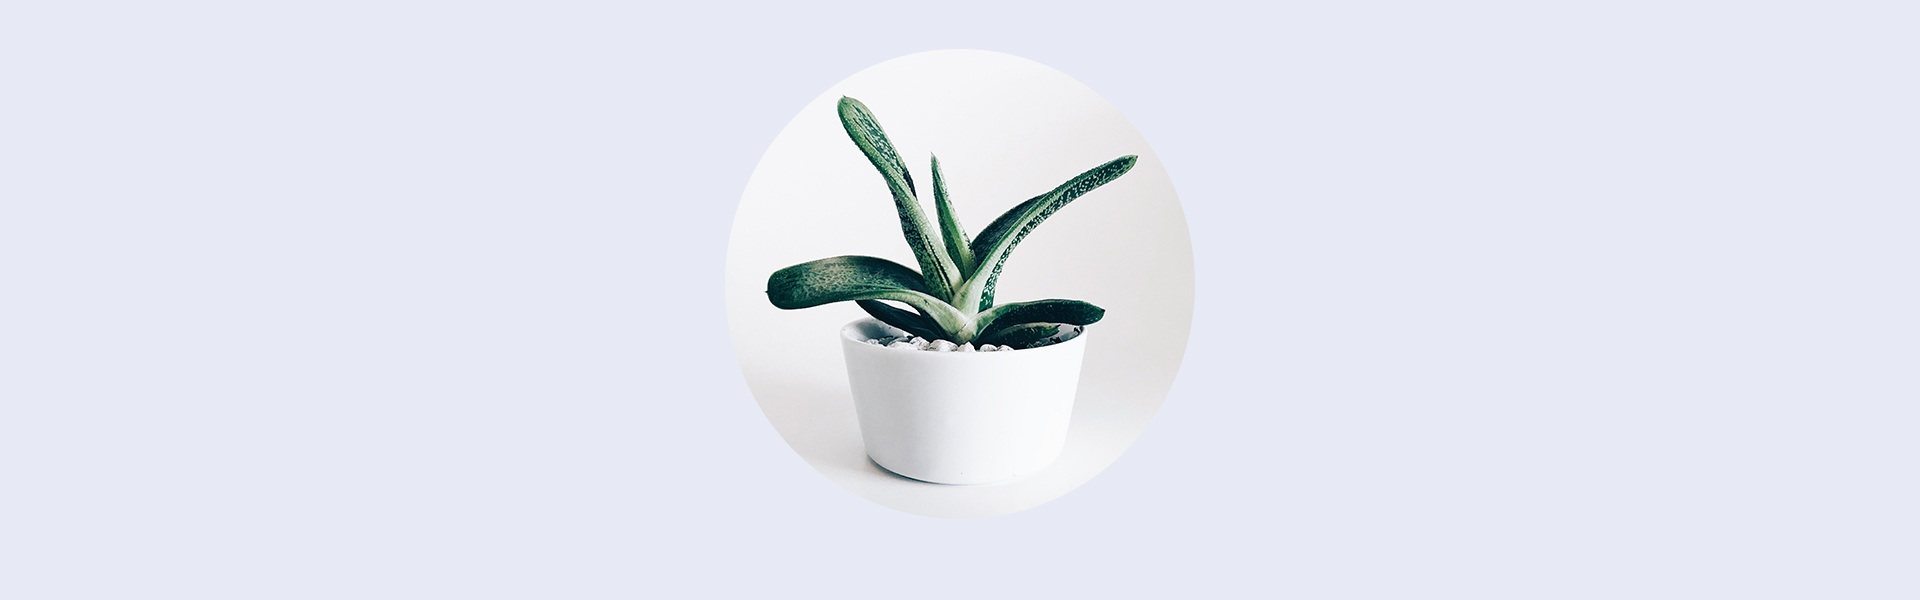
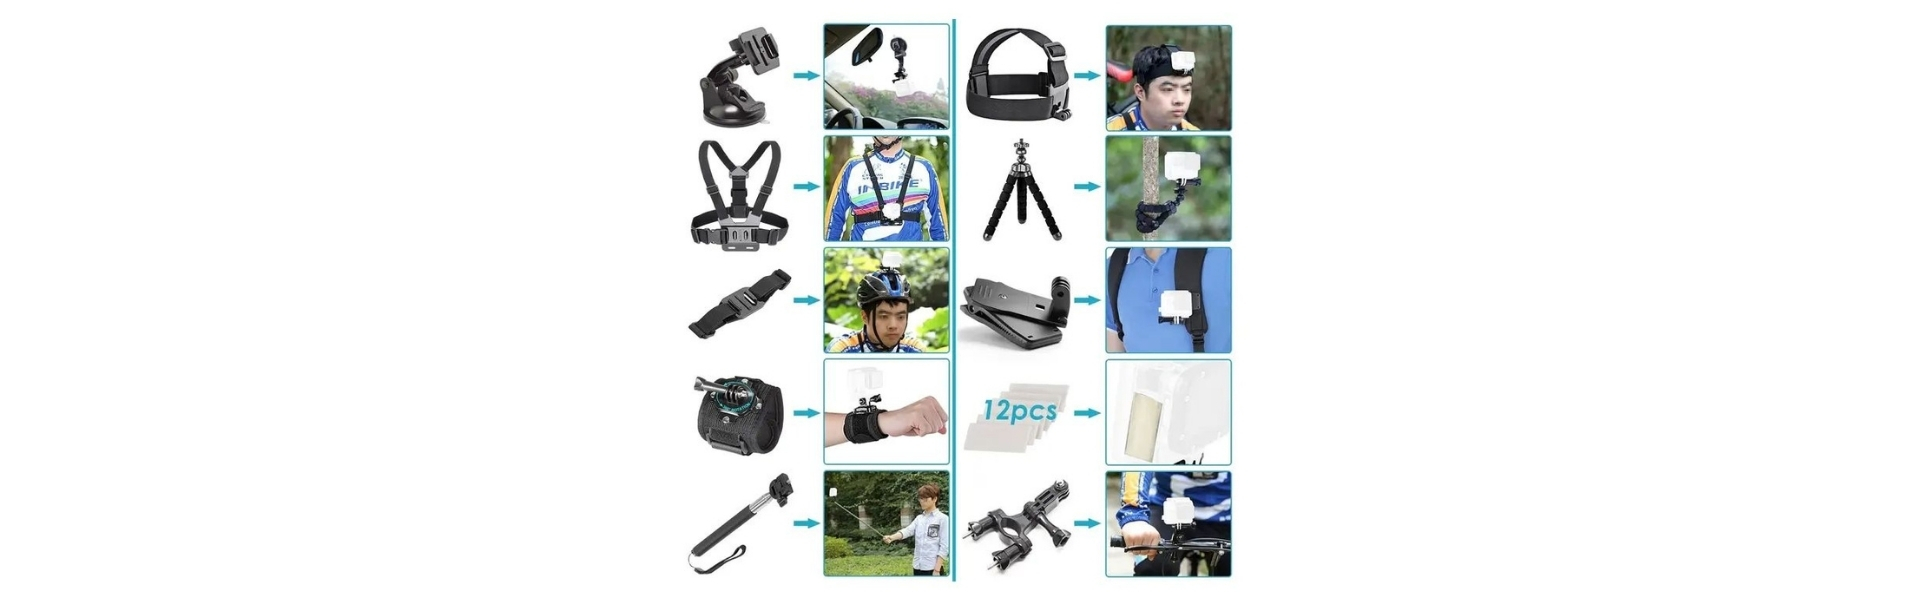
5.21 update

Changed region(s): [[0.3438, 0.03, 0.6562, 0.99]]

diff --git a/single-product.html b/single-product.html
@@ -10,7 +10,7 @@
     <meta name="apple-mobile-web-app-status-bar-style" content="black">
     <!-- The above tags *must* come first in the head, any other head content must come *after* these tags -->
     <!-- Title -->
-    <title>Suha - Multipurpose Ecommerce Mobile HTML Template</title>
+    <title>PixelHouse</title>
     <link rel="preconnect" href="https://fonts.googleapis.com">
     <link rel="preconnect" href="https://fonts.gstatic.com" crossorigin>
     <link href="https://fonts.googleapis.com/css2?family=Plus+Jakarta+Sans:ital,wght@0,200..800;1,200..800&amp;display=swap" rel="stylesheet">
@@ -72,22 +72,8 @@
         <ul class="sidenav-nav ps-0">
           <li><a href="profile.html"><i class="ti ti-user"></i>My Profile</a></li>
           <li><a href="notifications.html"><i class="ti ti-bell-ringing lni-tada-effect"></i>Notifications<span class="ms-1 badge badge-warning">3</span></a></li>
-          <li class="suha-dropdown-menu"><a href="#"><i class="ti ti-building-store"></i>Shop Pages</a>
-            <ul>
-              <li><a href="shop-grid.html">Shop Grid</a></li>
-              <li><a href="shop-list.html">Shop List</a></li>
-              <li><a href="single-product.html">Product Details</a></li>
-              <li><a href="featured-products.html">Featured Products</a></li>
-              <li><a href="flash-sale.html">Flash Sale</a></li>
-            </ul>
-          </li>
-          <li><a href="pages.html"><i class="ti ti-notebook"></i>All Pages</a></li>
-          <li class="suha-dropdown-menu"><a href="wishlist-grid.html"><i class="ti ti-heart"></i>My Wishlist</a>
-            <ul>
-              <li><a href="wishlist-grid.html">Wishlist Grid</a></li>
-              <li><a href="wishlist-list.html">Wishlist List</a></li>
-            </ul>
-          </li>
+         
+          
           <li><a href="settings.html"><i class="ti ti-adjustments-horizontal"></i>Settings</a></li>
           <li><a href="intro.html"><i class="ti ti-logout"></i>Sign Out</a></li>
         </ul>
@@ -116,15 +102,15 @@
         <div class="product-title-meta-data bg-white mb-3 py-3">
           <div class="container d-flex justify-content-between rtl-flex-d-row-r">
             <div class="p-title-price">
-              <h5 class="mb-1">Flower Ceramic Pots</h5>
-              <p class="sale-price mb-0 lh-1">$38<span>$41</span></p>
+              <h5 class="mb-1">50 in 1 Accesories Kit GoPro</h5>
+              <p class="sale-price mb-0 lh-1">Rs. 8,000<span>Rs. 13,000</span></p>
             </div>
             <div class="p-wishlist-share"><a href="wishlist-grid.html"><i class="ti ti-heart"></i></a></div>
           </div>
           <!-- Ratings-->
           <div class="product-ratings">
             <div class="container d-flex align-items-center justify-content-between rtl-flex-d-row-r">
-              <div class="ratings"><i class="ti ti-star-filled"></i><i class="ti ti-star-filled"></i><i class="ti ti-star-filled"></i><i class="ti ti-star-filled"></i><i class="ti ti-star-filled"></i><span class="ps-1">3 ratings</span></div>
+              <div class="ratings"><i class="ti ti-star-filled"></i><i class="ti ti-star-filled"></i><i class="ti ti-star-filled"></i><i class="ti ti-star-filled"></i><i class="ti ti-star-filled"></i><span class="ps-1">4 ratings</span></div>
               <div class="total-result-of-ratings"><span>5.0</span><span>Very Good                                </span></div>
             </div>
           </div>
@@ -138,7 +124,7 @@
               <div class="sales-end">
                 <p class="mb-1 font-weight-bold"><i class="ti ti-bolt-lightning lni-flashing-effect text-danger"></i> Flash sale end in</p>
                 <!-- Please use event time this format: YYYY/MM/DD hh:mm:ss-->
-                <ul class="sales-end-timer ps-0 d-flex align-items-center" data-countdown="2025/01/01 14:21:37">
+                <ul class="sales-end-timer ps-0 d-flex align-items-center" data-countdown="2026/10/01 14:21:37">
                   <li><span class="days">0</span>d</li>
                   <li><span class="hours">0</span>h</li>
                   <li><span class="minutes">0</span>m</li>
@@ -155,58 +141,7 @@
             </div>
           </div>
         </div>
-        <!-- Selection Panel-->
-        <div class="selection-panel bg-white mb-3 py-3">
-          <div class="container d-flex align-items-center justify-content-between">
-            <!-- Choose Color-->
-            <div class="choose-color-wrapper">
-              <p class="mb-1 font-weight-bold">Color</p>
-              <div class="choose-color-radio d-flex align-items-center">
-                <!-- Single Radio Input-->
-                <div class="form-check mb-0">
-                  <input class="form-check-input blue" id="colorRadio1" type="radio" name="colorRadio" checked>
-                  <label class="form-check-label" for="colorRadio1"></label>
-                </div>
-                <!-- Single Radio Input-->
-                <div class="form-check mb-0">
-                  <input class="form-check-input yellow" id="colorRadio2" type="radio" name="colorRadio">
-                  <label class="form-check-label" for="colorRadio2"></label>
-                </div>
-                <!-- Single Radio Input-->
-                <div class="form-check mb-0">
-                  <input class="form-check-input green" id="colorRadio3" type="radio" name="colorRadio">
-                  <label class="form-check-label" for="colorRadio3"></label>
-                </div>
-                <!-- Single Radio Input-->
-                <div class="form-check mb-0">
-                  <input class="form-check-input purple" id="colorRadio4" type="radio" name="colorRadio">
-                  <label class="form-check-label" for="colorRadio4"></label>
-                </div>
-              </div>
-            </div>
-            <!-- Choose Size-->
-            <div class="choose-size-wrapper text-end">
-              <p class="mb-1 font-weight-bold">Size</p>
-              <div class="choose-size-radio d-flex align-items-center">
-                <!-- Single Radio Input-->
-                <div class="form-check mb-0 me-2">
-                  <input class="form-check-input" id="sizeRadio1" type="radio" name="sizeRadio">
-                  <label class="form-check-label" for="sizeRadio1">S</label>
-                </div>
-                <!-- Single Radio Input-->
-                <div class="form-check mb-0 me-2">
-                  <input class="form-check-input" id="sizeRadio2" type="radio" name="sizeRadio" checked>
-                  <label class="form-check-label" for="sizeRadio2">M</label>
-                </div>
-                <!-- Single Radio Input-->
-                <div class="form-check mb-0 me-2">
-                  <input class="form-check-input" id="sizeRadio3" type="radio" name="sizeRadio">
-                  <label class="form-check-label" for="sizeRadio3">L</label>
-                </div>
-              </div>
-            </div>
-          </div>
-        </div>
+       
         <!-- Add To Cart-->
         <div class="cart-form-wrapper bg-white mb-3 py-3">
           <div class="container">
@@ -224,14 +159,14 @@
         <div class="p-specification bg-white mb-3 py-3">
           <div class="container">
             <h6>Specifications</h6>
-            <p>Lorem ipsum dolor sit amet consectetur adipisicing elit. Quasi, eum? Id, culpa? At officia quisquam laudantium nisi mollitia nesciunt, qui porro asperiores cum voluptates placeat similique recusandae in facere quos vitae?</p>
+            <p>This complete action camera accessory kit includes durable mounts, straps, selfie stick, floating grip, carrying case, tripod adapter, suction cup, anti-fog inserts, and essential accessories for every adventure.</p>
             <ul class="mb-3 ps-3">
               <li><i class="ti ti-check me-1"></i> 100% Good Reviews</li>
               <li><i class="ti ti-check me-1"></i> 7 Days Returns</li>
               <li> <i class="ti ti-check me-1"></i> Warranty not Aplicable</li>
               <li> <i class="ti ti-check me-1"></i> 100% Brand New Product</li>
             </ul>
-            <p class="mb-0">Lorem ipsum dolor sit amet consectetur adipisicing elit. Quasi, eum? Id, culpa? At officia quisquam laudantium nisi mollitia nesciunt, qui porro asperiores cum voluptates placeat similique recusandae in facere quos vitae?</p>
+            <p class="mb-0">Designed for cycling, surfing, hiking, travel, and water sports, this versatile kit offers secure camera mounting, reliable protection, comfortable wear, reusable accessories, and convenient storage for unforgettable outdoor experiences.</p>
           </div>
         </div>
         <!-- Product Video -->
@@ -239,7 +174,7 @@
           <div class="container">
             <div class="video-cta-content d-flex align-items-center justify-content-center">
               <div class="video-text text-center">
-                <h4 class="mb-4">Summer Clothing</h4><a class="btn btn-primary rounded-circle" id="videoButton" href="https://www.youtube.com/watch?v=lFGvqvPh5jI"><i class="ti ti-player-play"></i></a>
+                <h4 class="mb-4">Accesori Kit Video</h4><a class="btn btn-primary rounded-circle" id="videoButton" href="https://www.youtube.com/watch?v=s6uUuEYpx3Q"><i class="ti ti-player-play"></i></a>
               </div>
             </div>
           </div>
@@ -258,15 +193,15 @@
                   <!-- Wishlist Button--><a class="wishlist-btn" href="#"><i class="ti ti-heart">                       </i></a>
                   <!-- Thumbnail --><a class="product-thumbnail d-block" href="single-product.html"><img class="mb-2" src="img/product/11.png" alt="">
                     <!-- Offer Countdown Timer: Please use event time this format: YYYY/MM/DD hh:mm:ss -->
-                    <ul class="offer-countdown-timer d-flex align-items-center shadow-sm" data-countdown="2024/12/31 23:59:59">
+                    <ul class="offer-countdown-timer d-flex align-items-center shadow-sm" data-countdown="2026/10/31 23:59:59">
                       <li><span class="days">0</span>d</li>
                       <li><span class="hours">0</span>h</li>
                       <li><span class="minutes">0</span>m</li>
                       <li><span class="seconds">0</span>s</li>
                     </ul></a>
-                  <!-- Product Title --><a class="product-title" href="single-product.html">Beach Cap</a>
+                  <!-- Product Title --><a class="product-title" href="single-product.html">Helmet Chin Strap Mount</a>
                   <!-- Product Price -->
-                  <p class="sale-price">$13<span>$42</span></p>
+                  <p class="sale-price">Rs. 2,990<span>Rs. 3,300</span></p>
                   <!-- Rating -->
                   <div class="product-rating"><i class="ti ti-star-filled"></i><i class="ti ti-star-filled"></i><i class="ti ti-star-filled"></i><i class="ti ti-star-filled"></i><i class="ti ti-star-filled"></i></div>
                   <!-- Add to Cart --><a class="btn btn-primary btn-sm" href="#"><i class="ti ti-plus"></i></a>
@@ -277,9 +212,9 @@
                   <!-- Badge--><span class="badge rounded-pill badge-success">New</span>
                   <!-- Wishlist Button--><a class="wishlist-btn" href="#"><i class="ti ti-heart">                       </i></a>
                   <!-- Thumbnail --><a class="product-thumbnail d-block" href="single-product.html"><img class="mb-2" src="img/product/5.png" alt=""></a>
-                  <!-- Product Title --><a class="product-title" href="single-product.html">Wooden Sofa</a>
+                  <!-- Product Title --><a class="product-title" href="single-product.html">2.7M Selfie Stick GoPro</a>
                   <!-- Product Price -->
-                  <p class="sale-price">$74<span>$99</span></p>
+                  <p class="sale-price">Rs. 7,400<span>Rs. 10,500</span></p>
                   <!-- Rating -->
                   <div class="product-rating"><i class="ti ti-star-filled"></i><i class="ti ti-star-filled"></i><i class="ti ti-star-filled"></i><i class="ti ti-star-filled"></i><i class="ti ti-star-filled"></i></div>
                   <!-- Add to Cart --><a class="btn btn-primary btn-sm" href="#"><i class="ti ti-plus"></i></a>
@@ -290,9 +225,9 @@
                   <!-- Badge--><span class="badge rounded-pill badge-success">Sale</span>
                   <!-- Wishlist Button--><a class="wishlist-btn" href="#"><i class="ti ti-heart">                       </i></a>
                   <!-- Thumbnail --><a class="product-thumbnail d-block" href="single-product.html"><img class="mb-2" src="img/product/6.png" alt=""></a>
-                  <!-- Product Title --><a class="product-title" href="single-product.html">Roof Lamp</a>
+                  <!-- Product Title --><a class="product-title" href="single-product.html">3 Way Selfie Stic (Adjustable)</a>
                   <!-- Product Price -->
-                  <p class="sale-price">$99<span>$113</span></p>
+                  <p class="sale-price">Rs. 4,500<span>Rs. 5,900</span></p>
                   <!-- Rating -->
                   <div class="product-rating"><i class="ti ti-star-filled"></i><i class="ti ti-star-filled"></i><i class="ti ti-star-filled"></i><i class="ti ti-star-filled"></i><i class="ti ti-star-filled"></i></div>
                   <!-- Add to Cart --><a class="btn btn-primary btn-sm" href="#"><i class="ti ti-plus"></i></a>
@@ -304,15 +239,15 @@
                   <!-- Wishlist Button--><a class="wishlist-btn" href="#"><i class="ti ti-heart">                       </i></a>
                   <!-- Thumbnail --><a class="product-thumbnail d-block" href="single-product.html"><img class="mb-2" src="img/product/9.png" alt="">
                     <!-- Offer Countdown Timer: Please use event time this format: YYYY/MM/DD hh:mm:ss -->
-                    <ul class="offer-countdown-timer d-flex align-items-center shadow-sm" data-countdown="2024/12/23 00:21:29">
+                    <ul class="offer-countdown-timer d-flex align-items-center shadow-sm" data-countdown="2026/10/23 00:21:29">
                       <li><span class="days">0</span>d</li>
                       <li><span class="hours">0</span>h</li>
                       <li><span class="minutes">0</span>m</li>
                       <li><span class="seconds">0</span>s</li>
                     </ul></a>
-                  <!-- Product Title --><a class="product-title" href="single-product.html">Sneaker Shoes</a>
+                  <!-- Product Title --><a class="product-title" href="single-product.html">Floating Handle Stick GoPro</a>
                   <!-- Product Price -->
-                  <p class="sale-price">$87<span>$92</span></p>
+                  <p class="sale-price">Rs. 1,200<span>Rs. 1,500</span></p>
                   <!-- Rating -->
                   <div class="product-rating"><i class="ti ti-star-filled"></i><i class="ti ti-star-filled"></i><i class="ti ti-star-filled"></i><i class="ti ti-star-filled"></i><i class="ti ti-star-filled"></i></div>
                   <!-- Add to Cart --><a class="btn btn-primary btn-sm" href="#"><i class="ti ti-plus"></i></a>

diff --git a/home.html b/home.html
@@ -68,7 +68,7 @@
         <div class="sidenav-profile">
           <div class="user-profile"><img src="img/bg-img/9.jpg" alt=""></div>
           <div class="user-info">
-            <h5 class="user-name mb-1 text-white">Suha Sarah</h5>
+            <h5 class="user-name mb-1 text-white">Pixel House</h5>
             <p class="available-balance text-white">Current Balance $<span class="counter">99</span></p>
           </div>
         </div>
